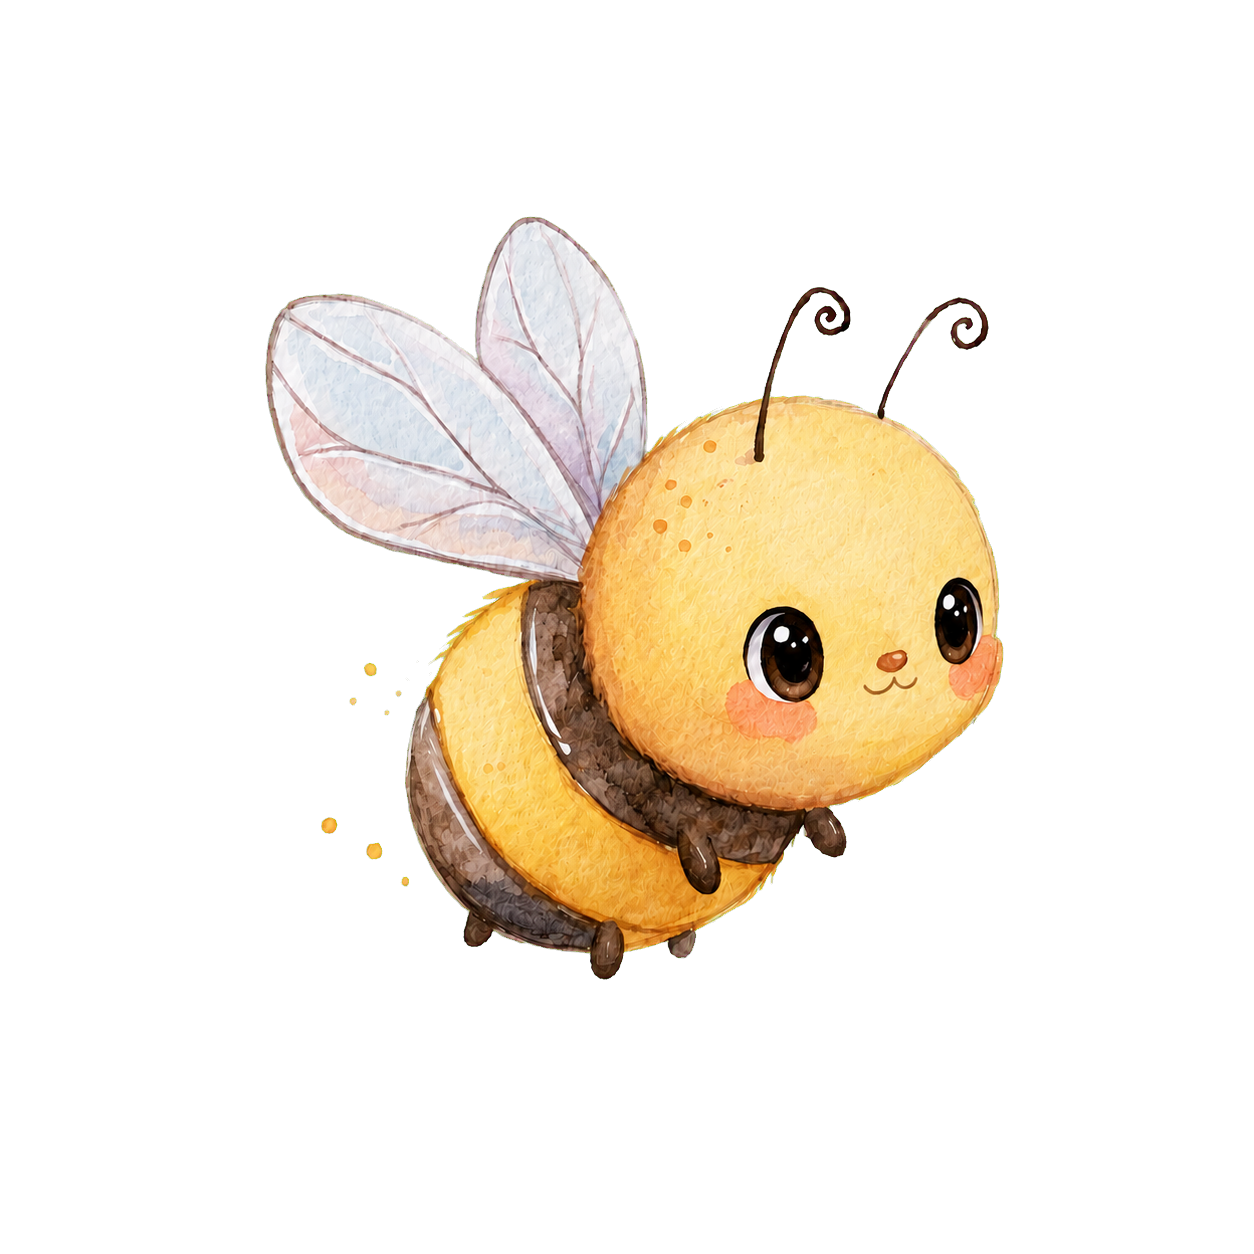
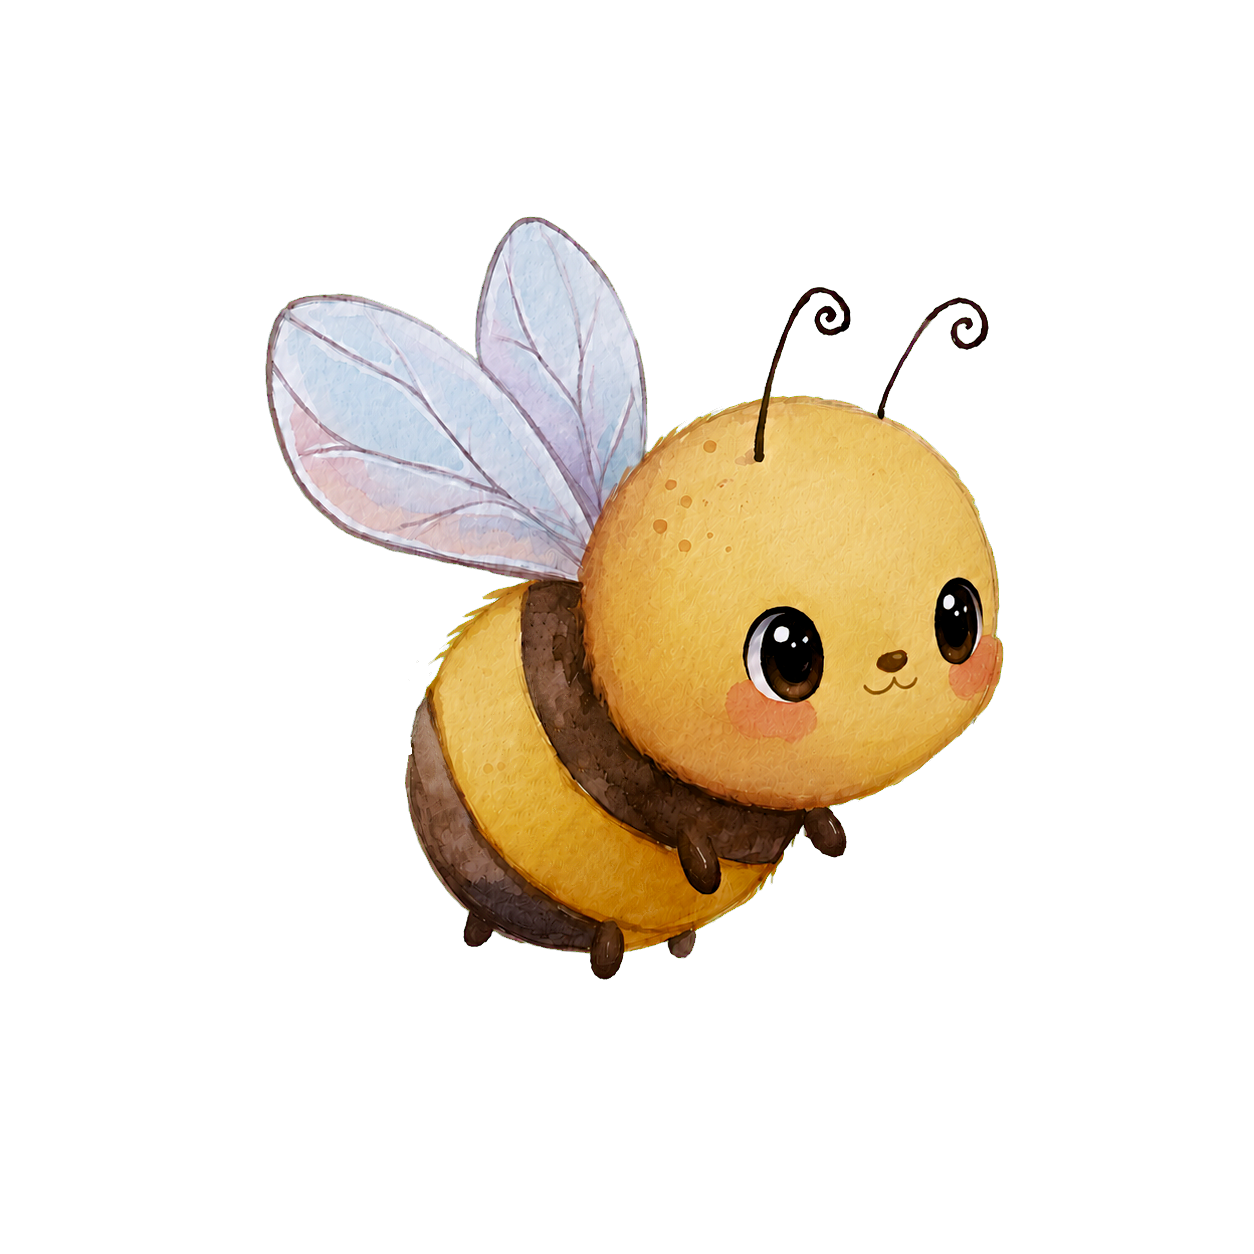
assets(lanternleaf): add character references

diff --git a/docs/universe/world-details.md b/docs/universe/world-details.md
@@ -9,8 +9,8 @@ This document defines the visual vocabulary and possibilities of the world; it i
 The written guide controls the world grammar. The images in this directory are
 role-specific references rather than interchangeable style authorities:
 
-- `worlds/lanternleaf/main-characters.md` controls the current Lanternleaf cast
-  names, species, pronouns, homes, and role status.
+- `worlds/lanternleaf/assets/characters/main-characters.md` controls the current
+  Lanternleaf cast names, species, pronouns, homes, and role status.
 - `fern-and-pip.png` demonstrates an inhabited Mossgrove scene,
   character-to-world scale, and foreground layering. It does not control the
   identity of the current cast.

diff --git a/docs/universe/worlds/lanternleaf/README.md b/docs/universe/worlds/lanternleaf/README.md
@@ -17,7 +17,8 @@ reading, with one shared canon and a primary serialized adventure.
 4. [Village and landmark scene references](village-scenes.md) — accepted
    environment studies for each village, Heartwood, Silverdrop Falls, and a
    forest reach of Winkwater, plus the current village prompt recipes.
-5. [Main characters](main-characters.md) — the current four-character roster
+5. [Main characters](assets/characters/main-characters.md) — the current
+   four-character roster
    and the identity and role details still to define.
 
 ## Planned foundation

diff --git a/.codex/skills/create-lanternleaf-scenes/SKILL.md b/.codex/skills/create-lanternleaf-scenes/SKILL.md
@@ -12,7 +12,8 @@ not as authority over the entire style.
 ## Required preparation
 
 1. Read `docs/universe/world-details.md` as the visual source of truth.
-2. Read `docs/universe/worlds/lanternleaf/main-characters.md` for current cast
+2. Read `docs/universe/worlds/lanternleaf/assets/characters/main-characters.md`
+   for the current cast
    identity and role status.
 3. Read `references/visual-bible.md` and `references/prompt-template.md`.
    When combining separate character and environment references, also read

diff --git a/.codex/skills/create-lanternleaf-scenes/references/visual-bible.md b/.codex/skills/create-lanternleaf-scenes/references/visual-bible.md
@@ -1,8 +1,9 @@
 # Lanternleaf visual bible
 
 `docs/universe/world-details.md` is canonical. This file condenses the rules an
-image prompt must preserve. Read `docs/universe/worlds/lanternleaf/main-characters.md`
-for the current cast.
+image prompt must preserve. Read
+`docs/universe/worlds/lanternleaf/assets/characters/main-characters.md` for the
+current cast.
 
 ## Audience and feeling
 
